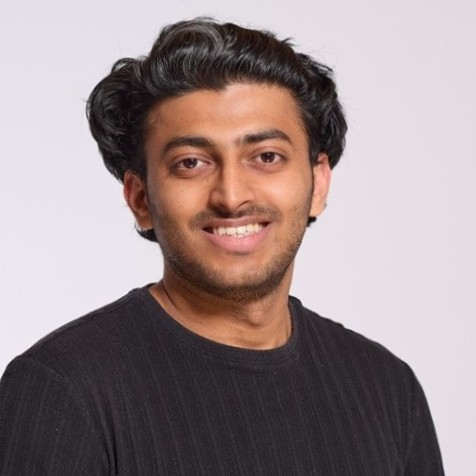
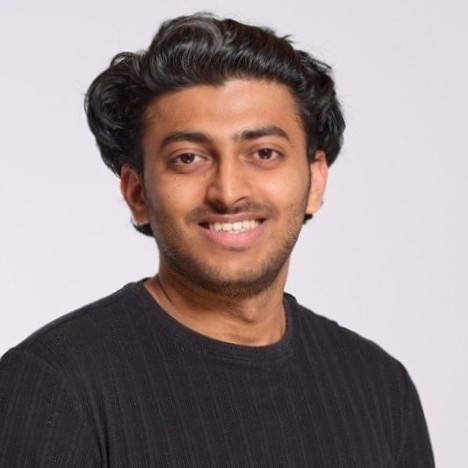
bg change, profile image corrections

diff --git a/timeline.html b/timeline.html
@@ -203,7 +203,7 @@
         </a>
       </div>
       <ul>
-        <li>Tools: Power Automate, Blue Prism</li>
+        <li>Tools: Power Automate, Copilot Studio</li>
       </ul>
     </div>
 
